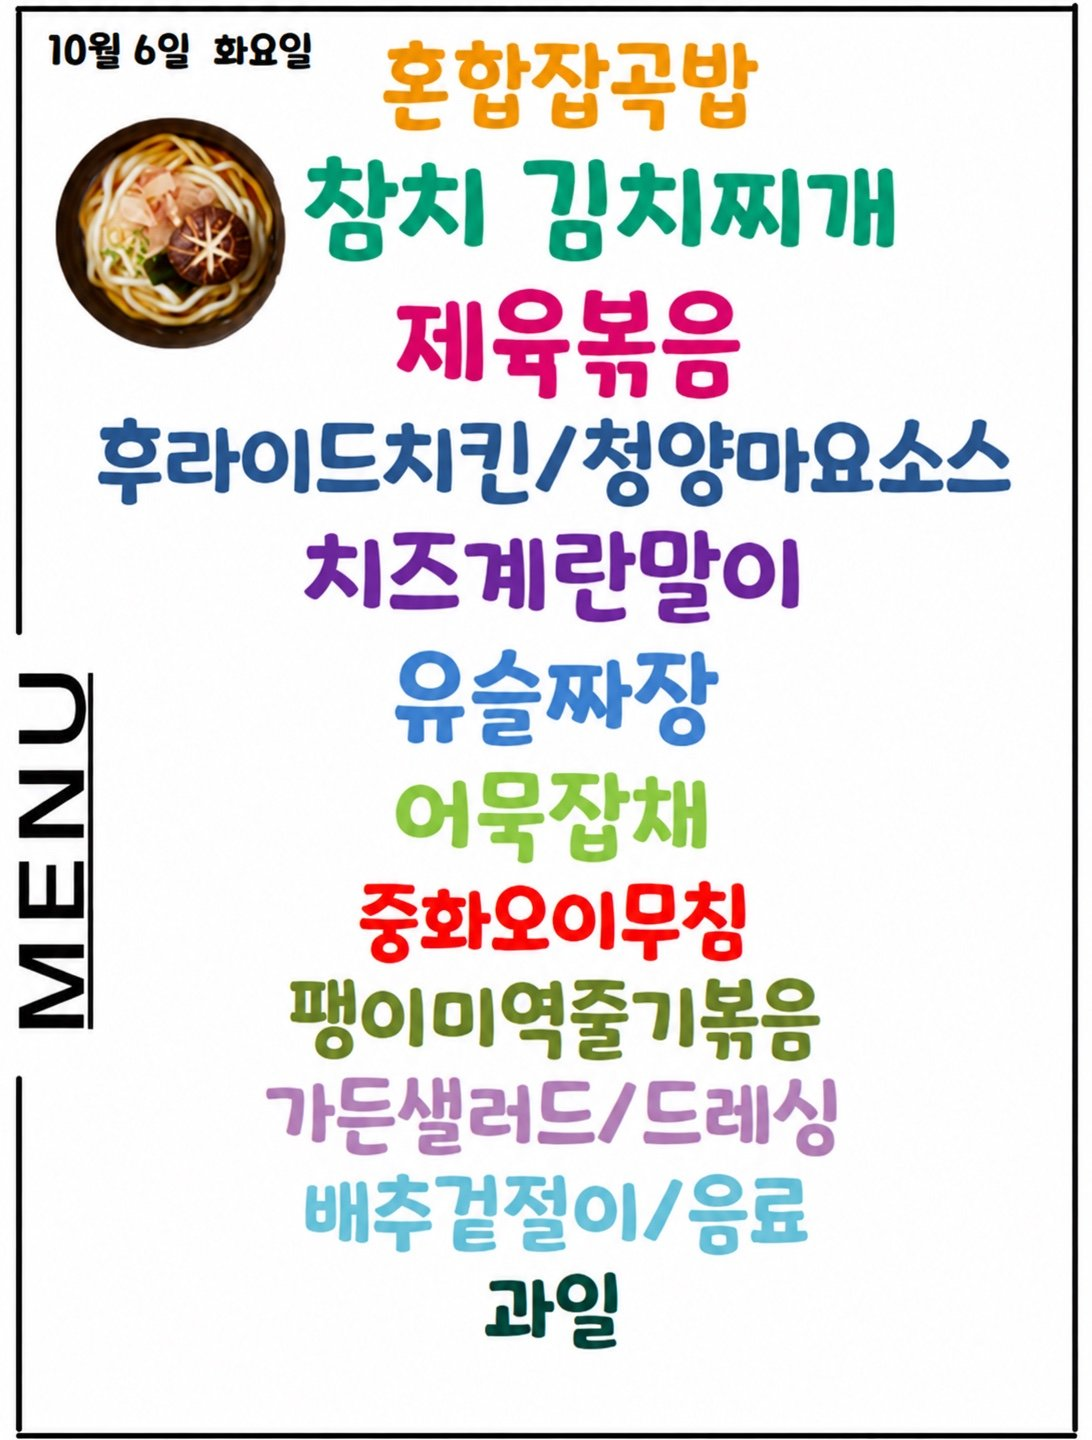
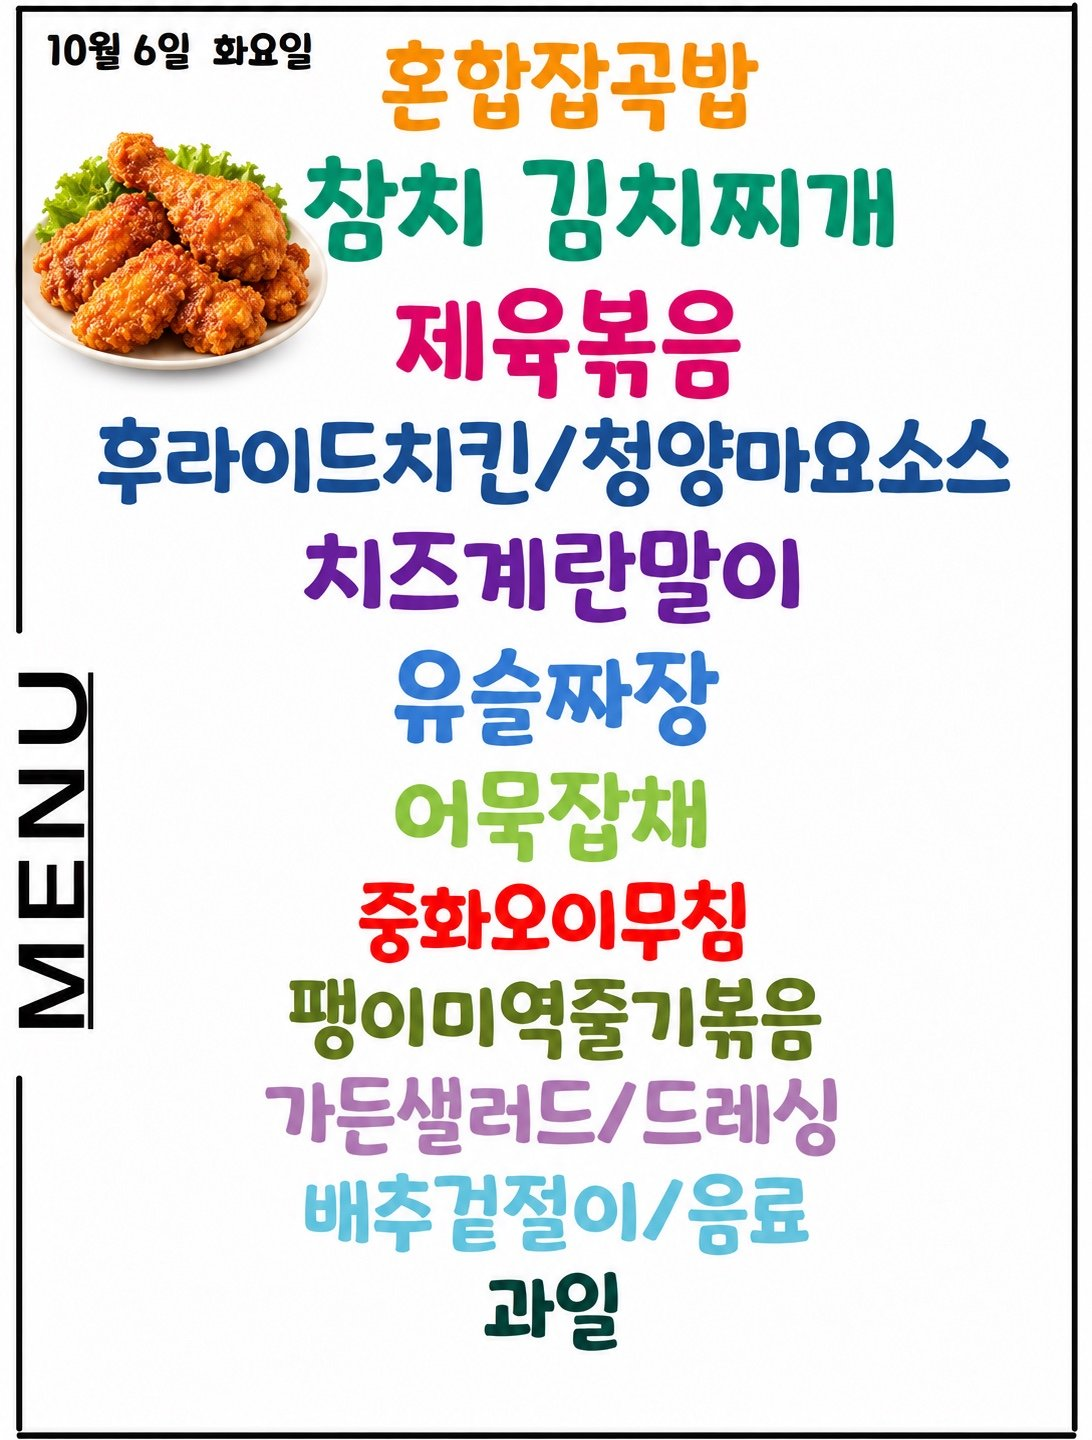
Update menu board assets

diff --git a/menu-today/index.html b/menu-today/index.html
@@ -209,7 +209,7 @@
 
     <section class="meta-bar">
       <div class="meta-card"><div class="meta-label">기준 날짜</div><div class="meta-value">2026년 10월 6일 화요일</div></div>
-      <div class="meta-card"><div class="meta-label">최종 가져온 시간</div><div class="meta-value">2026-10-06 10:48:51</div></div>
+      <div class="meta-card"><div class="meta-label">최종 가져온 시간</div><div class="meta-value">2026-10-06 11:04:10</div></div>
       <div class="meta-card"><div class="meta-label">확인 완료</div><div class="meta-value">9개 식당</div></div>
       <div class="meta-card"><div class="meta-label">준비중</div><div class="meta-value">3개 채널</div></div>
     </section>
@@ -295,7 +295,7 @@
             <div class="sub">에이스테크노타워10차</div>
           </div>
         </div>
-        <div class="menu-inline-image"><img src="./images/thefoodsketch.png" alt="더푸드스케치 식단 이미지"></div><ul><li>** 김치찌개</li><li>후라이드치킨 / 청양마요소스</li><li>치즈계란말이</li><li>유슬짜장</li><li>= 어묵잡채</li><li>us 중화오이무칭</li><li>가든샐러드 / 드레싱</li><li>배추겉절이 / 응료</li><li>과일</li><li>aa 훈합잡곡밥</li></ul>
+        <div class="menu-inline-image"><img src="./images/thefoodsketch.png" alt="더푸드스케치 식단 이미지"></div><ul><li>혼합잡곡밥</li><li>김치찌개</li><li>후라이드치킨 / 청양마요소스</li><li>치즈계란말이</li><li>&gt; 유슬짜장</li><li>~ 어묵잡채</li><li>= 중화오이무창</li><li>팽이미역줄기볶응</li><li>가든샐러드 / 드레싱</li><li>배추겉절이 / 응료</li><li>과잉</li></ul>
       </article>
 
       <article class="restaurant-card">

diff --git a/guro-menu/index.html b/guro-menu/index.html
@@ -32,7 +32,7 @@
   </header>
   <section class="meta">
     <div><small>기준 날짜</small><strong>2026년 10월 6일 화요일</strong></div>
-    <div><small>최종 갱신</small><strong>2026-10-06 10:49:04</strong></div>
+    <div><small>최종 갱신</small><strong>2026-10-06 11:04:27</strong></div>
     <div><small>등록 식당</small><strong>5개</strong></div>
   </section>
   <div class="notice">공개 카카오 채널의 메뉴 이미지를 자동 수집하고 OCR로 정리합니다. 텍스트에 오타가 있을 수 있으니 식단 이미지를 함께 확인해 주세요.</div>
